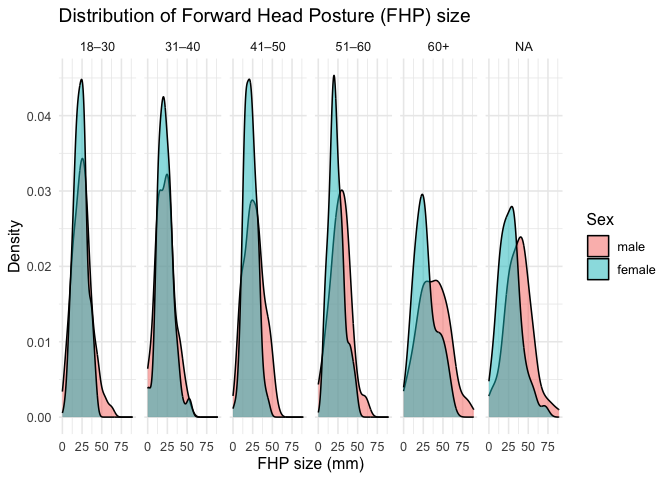
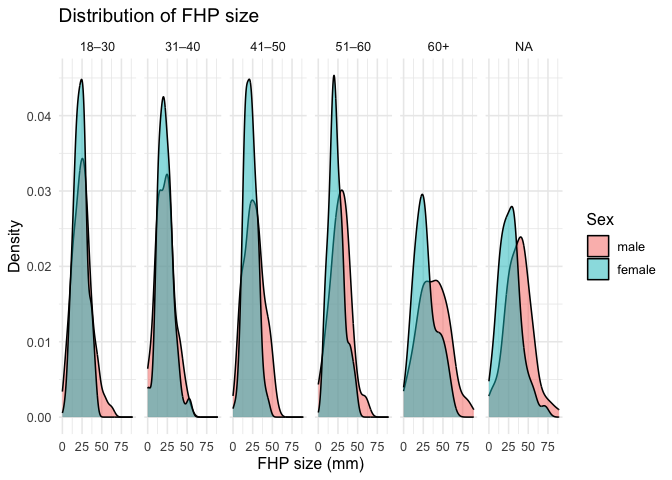
update comments

Changed region(s): [[0.2812, 0.0, 0.7188, 0.0625]]

diff --git a/p8105_mtp_yz5248.md b/p8105_mtp_yz5248.md
@@ -34,9 +34,12 @@ library(janitor)
 ``` r
 library(lubridate)  
 library(patchwork)
+library(ggplot2)
 ```
 
-# Importing and tiding data
+# Problem 1
+
+## Importing and tiding data
 
 ``` r
 raw_df = 
@@ -44,8 +47,10 @@ raw_df =
   janitor::clean_names() |>                     
   mutate(
     across(where(is.numeric), ~na_if(.x, -999)),  
+    # sex was recoded from numeric indicators (0, 1) to labeled factors (“female”, “male”)
     sex = recode(sex, `0` = "female", `1` = "male"),
-    sex = factor(sex, levels = c("male", "female")),
+    sex = factor(sex, levels = c("male", "female")), 
+    # age_group was transformed into ordered categorical groups (“18–30”, “31–40”, “41–50”, “51–60”, “60+”)
     age_group = case_when(
       age_group == 2 ~ "18–30",
       age_group == 3 ~ "31–40",
@@ -56,6 +61,7 @@ raw_df =
     ),
     age_group = ordered(age_group,
                         levels = c("18–30", "31–40", "41–50", "51–60", "60+")),
+    # create character and ordered factors for "eop_size"
     eop_size = case_when(
       eop_size == 0 ~ "small (0–5mm)",
       eop_size == 1 ~ "medium (5–10mm)",
@@ -63,6 +69,7 @@ raw_df =
       TRUE ~ NA_character_
     ),
     eop_size = ordered(eop_size, levels = c("small (0–5mm)", "medium (5–10mm)", "large (10mm+)")),
+    # create character and ordered factors for "eop_visibility_classification"
     eop_visibility_classification = recode(eop_visibility_classification,
                                            `0` = "not_visible",
                                            `1` = "partially_visible",
@@ -70,6 +77,7 @@ raw_df =
     eop_visibility_classification = ordered(
       eop_visibility_classification,
       levels = c("not_visible", "partially_visible", "visible")),
+    # create character and ordered factors for "fhp_category"
     fhp_category = case_when(
       fhp_category == 0 ~ "none (0–10mm)",
       fhp_category == 1 ~ "mild (10–20mm)",
@@ -111,8 +119,55 @@ raw_df
     ## # ℹ 2 more variables: fhp_size_mm <dbl>, fhp_category <ord>
 
 ``` r
-n_participants <- nrow(raw_df)
+n_participants = nrow(raw_df)
+n_participants
+```
 
+    ## [1] 1221
+
+``` r
+n_by_group = raw_df |>
+  count(age_group, sex) |>
+  arrange(age_group, sex)
+n_by_group
+```
+
+    ## # A tibble: 12 × 3
+    ##    age_group sex        n
+    ##    <ord>     <fct>  <int>
+    ##  1 18–30     male     152
+    ##  2 18–30     female   151
+    ##  3 31–40     male     102
+    ##  4 31–40     female   102
+    ##  5 41–50     male     101
+    ##  6 41–50     female   106
+    ##  7 51–60     male     101
+    ##  8 51–60     female    99
+    ##  9 60+       male      50
+    ## 10 60+       female    48
+    ## 11 <NA>      male     101
+    ## 12 <NA>      female   108
+
+The raw dataset was cleaned to ensure consistent and interpretable
+variable formats.  
+The key variables here is age, sex, eop size, eop visibility, and fhp
+category.  
+- Firstly, numeric variables coded as -999 were replaced with missing
+values (NA).  
+- The variable sex was recoded from numeric indicators (0, 1) to labeled
+factors (“female”, “male”), and age_group was transformed into ordered
+categorical groups (“18–30”, “31–40”, “41–50”, “51–60”, “60+”).  
+- Categorical versions of eop size, eop visibility, and fhp category
+were generated from their corresponding numeric or ordinal measures to
+reflect the definitions described in the original report.
+
+After cleaning, the final dataset included 1,221 participants, with
+approximately equal numbers of males (607) and females (614). The age
+distribution was relatively balanced across the predefined age groups,
+with slightly fewer participants in the 60+ group. The table below
+summarizes the number of participants by age and sex:
+
+``` r
 age_sex_table <- raw_df |>
   filter(!is.na(age_group)) |>
   tabyl(sex, age_group) |>
@@ -121,12 +176,6 @@ age_sex_table <- raw_df |>
   adorn_pct_formatting(digits = 1) |>
   kable(caption = "Table 1. Age group distribution by sex")
 
-n_participants
-```
-
-    ## [1] 1221
-
-``` r
 age_sex_table
 ```
 
@@ -138,14 +187,58 @@ age_sex_table
 
 Table 1. Age group distribution by sex
 
+Age was categorized into five groups (18–30, 31–40, 41–50, 51–60, and
+60+ years). The distribution across age groups is relatively uniform,
+with about 30% of participants aged 18–30, 20% each in the 31–60 range,
+and roughly 10% aged 60 and above for both sexes. This balanced sampling
+ensures adequate representation across adult age groups.
+
+## checking whether categorical variable (fhp_category) in the dataset correctly implement the definitions based on underlying continuous variable (fhp_size_mm)
+
 ``` r
-raw_df |>
-  ggplot(aes(x = age)) +
-  geom_histogram(binwidth = 5, fill = "skyblue", color = "white") +
-  labs(title = "Age Distribution", x = "Age (years)", y = "Count")
+# Create a new variable based on the continuous measure
+fhp_check = raw_df |>
+  mutate(
+    fhp_cat_from_size = case_when(
+      fhp_size_mm < 10 ~ "none (0–10mm)",
+      fhp_size_mm < 20 ~ "mild (10–20mm)",
+      fhp_size_mm < 30 ~ "moderate (20–30mm)",
+      fhp_size_mm >= 30 ~ "severe (30mm+)",
+      TRUE ~ NA_character_
+    ),
+    fhp_cat_from_size = ordered(
+      fhp_cat_from_size,
+      levels = c("none (0–10mm)", "mild (10–20mm)", "moderate (20–30mm)", "severe (30mm+)")
+    )
+  ) |>
+  filter(fhp_category != fhp_cat_from_size) |>
+  select(sex, age, fhp_size_mm, fhp_category, fhp_cat_from_size) |>
+  head(10)
+fhp_check
 ```
 
-![](p8105_mtp_yz5248_files/figure-gfm/unnamed-chunk-4-1.png)<!-- -->
+    ## # A tibble: 8 × 5
+    ##   sex      age fhp_size_mm fhp_category       fhp_cat_from_size 
+    ##   <fct>  <dbl>       <dbl> <ord>              <ord>             
+    ## 1 female    64        21.1 mild (10–20mm)     moderate (20–30mm)
+    ## 2 male      29        33.8 mild (10–20mm)     severe (30mm+)    
+    ## 3 male      42        22.9 mild (10–20mm)     moderate (20–30mm)
+    ## 4 male      18        31.8 moderate (20–30mm) severe (30mm+)    
+    ## 5 male      65        30.1 mild (10–20mm)     severe (30mm+)    
+    ## 6 female    63        31.5 moderate (20–30mm) severe (30mm+)    
+    ## 7 female    28        27   mild (10–20mm)     moderate (20–30mm)
+    ## 8 male      65        25   mild (10–20mm)     moderate (20–30mm)
+
+Comparison between fhp_category and the continuous fhp_size_mm values
+reveals several inconsistencies. For example, subjects with FHP sizes of
+21–25 mm are sometimes labeled as mild (10–20 mm) rather than moderate
+(20–30 mm), and those with values above 30 mm are occasionally
+categorized as mild or moderate instead of severe (30 mm+). These
+discrepancies indicate that the categorical variable fhp_category does
+not strictly follow the definitions implied by the underlying continuous
+measurements. Such coding errors could distort analyses comparing FHP
+severity across demographic groups or relating FHP to other anatomical
+features.
 
 # Visualization
 
@@ -161,7 +254,7 @@ new_Figure3 = plot_df |>
   geom_density(alpha = 0.5) +
   facet_wrap(~ age_group, nrow = 1) +
   labs(
-    title = "Distribution of Forward Head Posture (FHP) size",
+    title = "Distribution of FHP size",
     x = "FHP size (mm)",
     y = "Density",
     fill = "Sex"
@@ -219,6 +312,16 @@ two_panel_fig
     ## (`stat_density()`).
 
 ![](p8105_mtp_yz5248_files/figure-gfm/unnamed-chunk-5-3.png)<!-- -->
+About the left panel shows that the full distribution of fhp size,
+revealing right-skewed patterns and larger fhp in males and older
+participants—details hidden in the original summary statistics. About
+the right panel, the plot of enlarge eop_size shows that the prevalence
+of enlarged eop increases with age in both males and females, with males
+generally having a higher prevalence than females across all age
+groups.  
+Overall, these figures highlight sex and age differences but do not
+support a causal link between smartphone use and eop growth; additional
+data on posture and device use would be needed.
 
 ``` r
 fhp_eop_plot = raw_df |>
@@ -240,14 +343,12 @@ fhp_eop_plot
     ## `geom_smooth()` using formula = 'y ~ x'
 
 ![](p8105_mtp_yz5248_files/figure-gfm/unnamed-chunk-6-1.png)<!-- --> The
-left panel shows the full distribution of FHP size, revealing
-right-skewed patterns and larger FHP in males and older
-participants—details hidden in the original summary statistics. The
-right panel displays the rate (not count) of enlarged EOP (≥10 mm),
-showing higher prevalence in males and an increase with age.  
-Overall, these figures highlight sex and age differences but do not
-support a causal link between smartphone use and EOP growth; additional
-data on posture and device use would be needed.
+plots show a weak positive association between fhp and eop size in males
+across most age groups, while females display little or no clear
+relationship. Males generally have larger eop sizes than females, and
+age does not appear to substantially affect the association. Overall,
+sex differences, rather than age, mainly drive the relationship between
+fhp and eop.
 
 # Results and Discussion
 
